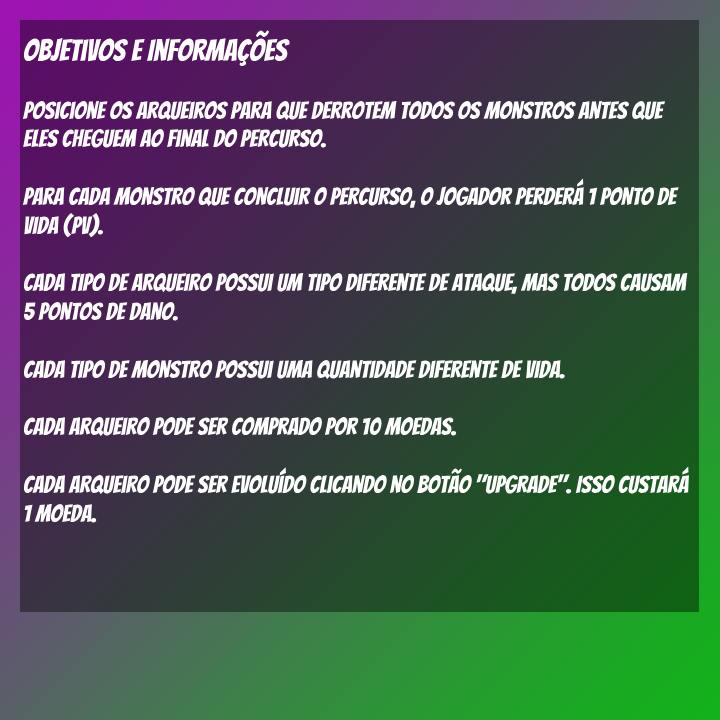
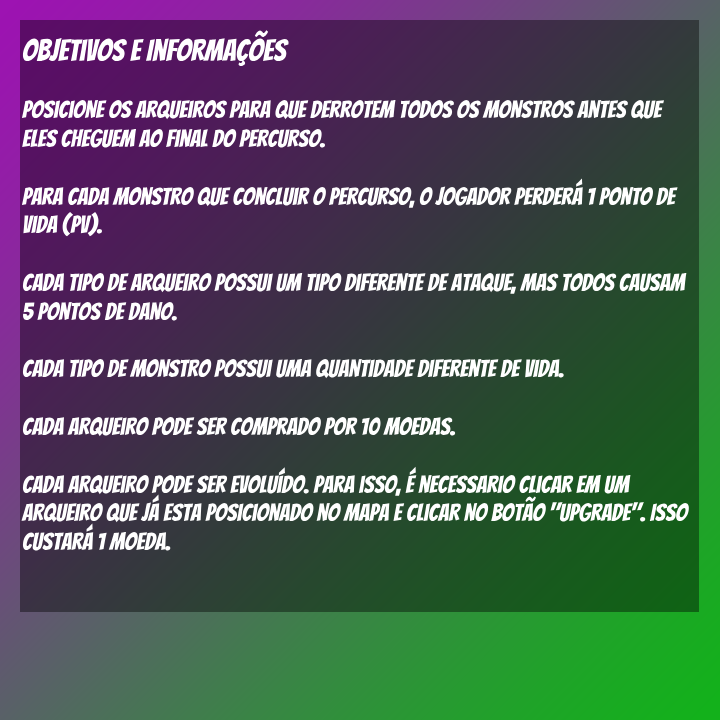
ajustando tela de ajuda

diff --git a/main.py b/main.py
@@ -52,6 +52,7 @@ enemy_images = {
 }
 
 #carregando imagens
+sidebar_background = pg.image.load('assets/images/gui/Moldura_Menu.png').convert_alpha()
 buy_turret_image = pg.image.load('assets/images/buttons/novaCompra.png').convert_alpha()
 nova_compra_image = pg.image.load('assets/images/buttons/novaCompra.png').convert_alpha()
 cancel_image = pg.image.load('assets/images/buttons/cancel.png').convert_alpha()
@@ -160,7 +161,7 @@ restart_button = Button(c.LARGURA_TELA + 30, 550, restart_image, True)
 fast_forward_button = Button(c.LARGURA_TELA + 30, 450, fast_forward_image, False)
 pause_button = Button(c.LARGURA_TELA + 150, 450, pause_image, False)  # Botão de Pausar
 ajuda_button = Button(c.LARGURA_TELA + 30, 500, ajuda_image, False)  # Botão de Ajuda
-back_button = Button(c.LARGURA_TELA + 150, 500, back_image, False)
+#back_button = Button(c.LARGURA_TELA + 150, 500, back_image, False)
 back_button = Button(550, 625, back_image, False)
 
 def informar2(lv):
@@ -182,6 +183,66 @@ def informar2(lv):
     return False  # Caso contrário, continua mostrando a tela de informações
 
 
+
+
+
+help_images = [
+    pg.image.load('assets/images/ajuda1.png').convert_alpha(),
+    pg.image.load('assets/images/ajuda2.png').convert_alpha(),
+    pg.image.load('assets/images/ajuda3.png').convert_alpha(),
+    pg.image.load('assets/images/ajuda4.png').convert_alpha()
+]
+
+# Carrega as imagens dos botões
+button_images = [
+    pg.image.load('assets/images/page1.png').convert_alpha(),
+    pg.image.load('assets/images/page2.png').convert_alpha(),
+    pg.image.load('assets/images/page3.png').convert_alpha(),
+    pg.image.load('assets/images/page4.png').convert_alpha(),
+    
+]
+
+# Cria os botões de navegação automaticamente
+buttons = [
+    pg.Rect(150 + i * 100, 625, button_images[i].get_width(), button_images[i].get_height())
+    for i in range(4)
+]
+
+def show_help_screen():
+    global help_screen_stage
+
+    # Loop para manter a tela de ajuda ativa
+    showing_help = True
+    while showing_help:
+        #screen.fill((0, 0, 0))  # Limpa a tela
+
+        for event in pg.event.get():
+            if event.type == pg.QUIT:
+                pg.quit()
+                exit()
+            elif event.type == pg.MOUSEBUTTONDOWN and event.button == 1:
+                for i, button in enumerate(buttons):
+                    if button.collidepoint(event.pos):
+                        help_screen_stage = i + 1  # Atualiza para a página correta
+                # Se clicar no botão de voltar, sai da tela de ajuda
+                if back_button.draw(screen):  # Esse botão retorna ao jogo
+                  return True  # Indica que deve voltar ao jogo
+
+        # Exibe a tela de ajuda correspondente
+        screen.blit(help_images[help_screen_stage - 1], (0, 0))
+
+        # Desenha os botões
+        for i, button in enumerate(buttons):
+            screen.blit(button_images[i], (button.x, button.y))
+
+        # Desenha o botão de voltar
+        screen.blit(back_image, (back_button.rect.x, back_button.rect.y))
+
+        pg.display.flip()  # Atualiza a tela
+
+    return False  # Retorna para indicar que saiu da tela de ajuda
+
+'''
 def show_help_screen():
     global help_screen_stage
     pg1_image = pg.image.load('assets/images/page1.png').convert_alpha()
@@ -230,8 +291,7 @@ def show_help_screen():
     if back_button.draw(screen):  # Esse botão retorna ao jogo
         return True  # Indica que deve voltar ao jogo
     return False  # Permanece na tela de ajuda
-
-sidebar_background = pg.image.load('assets/images/gui/Moldura_Menu.png').convert_alpha()
+'''
 
 
 run = True
@@ -254,7 +314,7 @@ while run:
     screen.blit(intro_image, (0, 0))
     pg.display.flip()
     continue  # Pula o resto do loop para não atualizar o jogo ainda
-  
+  display_data()
   #########################
   #     ATUALIZAÇAO       #
   #########################  
@@ -293,7 +353,7 @@ while run:
   enemy_group_2.draw(screen)
   for turret in turret_group:
     turret.draw(screen)
-  display_data()
+  
   
   if game_over == False:
     if in_help_screen:  # Quando na tela de ajuda
